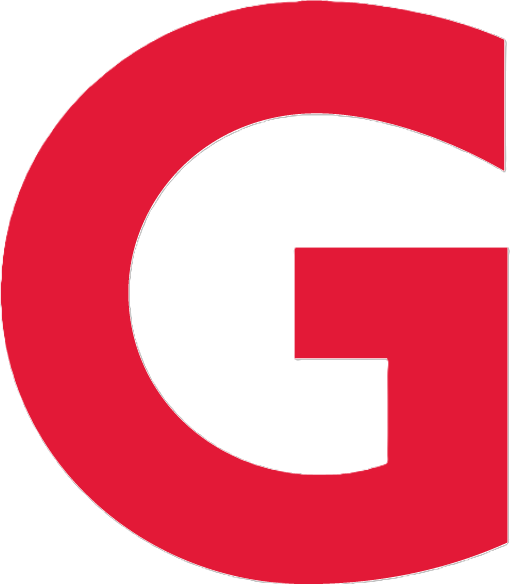
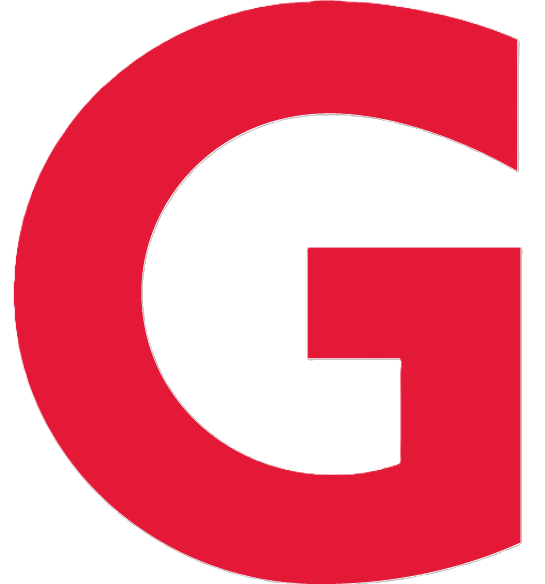
Add files via upload

diff --git a/index.html b/index.html
@@ -11,10 +11,10 @@
       --text:#1f2937;
       --muted:#6b7280;
       --border:#e5e7eb;
-      --red:#e11d48;
-      --red-2:#f43f5e;
-      --green:#16a34a;
-      --blue:#2563eb;
+      --red:#e31937;
+      --red-2:#5236ab;
+      --green:#2faf49;
+      --blue:#5236ab;
       --shadow: 0 18px 40px rgba(17,24,39,.08);
       --shadow-soft: 0 6px 22px rgba(17,24,39,.06);
       --radius: 22px;
@@ -71,7 +71,7 @@
 
     .logo-top img {
       display: block;
-      width: 248px;
+      width: 242px;
       max-width: 100%;
       height: auto;
     }
@@ -89,7 +89,7 @@
       color: #374151;
       font-size: 1.05rem;
       line-height: 1.45;
-      max-width: 16ch;
+      max-width: 100%;
     }
 
     .topic-list {
@@ -174,7 +174,7 @@
       position: relative;
       z-index: 1;
       display: flex;
-      align-items: end;
+      align-items: center;
       gap: 12px;
       height: 100%;
     }
@@ -253,7 +253,7 @@
       height: 100%;
       width: 0%;
       border-radius: inherit;
-      background: linear-gradient(90deg, #ef4444, var(--red));
+      background: linear-gradient(90deg, var(--red), var(--red-2));
       transition: width .28s ease;
     }
 
@@ -403,8 +403,8 @@
     .primary:hover, .secondary:hover { transform: translateY(-1px); }
     .primary {
       color: #fff;
-      background: linear-gradient(90deg, #ef4444, #e11d48);
-      box-shadow: 0 14px 28px rgba(225,29,72,.18);
+      background: linear-gradient(90deg, var(--red), var(--red-2));
+      box-shadow: 0 14px 28px rgba(227,25,55,.18);
     }
 
     .secondary {
@@ -427,6 +427,15 @@
       box-shadow: 0 4px 12px rgba(17,24,39,.03);
     }
 
+    .slogan {
+      margin: 0 0 8px;
+      color: var(--red);
+      font-size: .9rem;
+      font-weight: 800;
+      letter-spacing: .14em;
+      text-transform: uppercase;
+    }
+
     .logo-area {
       display: flex;
       align-items: center;
@@ -441,27 +450,27 @@
       max-width: 760px;
       display: grid;
       grid-template-columns: repeat(3, minmax(0, 1fr));
-      gap: 24px;
-      align-items: end;
+      gap: 18px;
+      align-items: center;
     }
 
     .logo-stage .slot {
       display: flex;
       align-items: center;
       justify-content: center;
-      min-height: 380px;
+      min-height: 340px;
     }
 
     .logo-stage img {
       display: block;
-      height: 280px;
+      height: 300px;
       width: auto;
       max-width: 100%;
       object-fit: contain;
-      filter: drop-shadow(0 14px 26px rgba(225,29,72,.18));
+      filter: none;
       transition: opacity .4s ease, transform .4s ease, filter .4s ease;
-      opacity: .08;
-      transform: translateY(12px) scale(.96);
+      opacity: 0;
+      transform: translateY(16px) scale(.96);
       background: transparent;
     }
 
@@ -471,12 +480,12 @@
     }
 
     .logo-stage img.final {
-      filter: drop-shadow(0 16px 28px rgba(225,29,72,.28));
+      filter: none;
     }
 
-    .logo-stage .c { width: 100%; max-width: 245px; }
-    .logo-stage .g { width: 100%; max-width: 245px; }
-    .logo-stage .i { width: 100%; max-width: 245px; }
+    .logo-stage .c { width: 100%; max-width: 240px; }
+    .logo-stage .g { width: 100%; max-width: 240px; }
+    .logo-stage .i { width: 100%; max-width: 240px; }
 
     .complete-box {
       margin-top: 8px;
@@ -568,12 +577,7 @@
       .main { padding: 14px; }
       .topline { flex-direction: column; align-items: flex-start; }
       .form-grid { grid-template-columns: 1fr; }
-      .logo-top img {
-      display: block;
-      width: 248px;
-      max-width: 100%;
-      height: auto;
-    }
+      .logo-top img { width: 220px; }
       .logo-stage { gap: 10px; }
       .logo-stage .slot { min-height: 220px; }
       .logo-stage img { height: 190px; }
@@ -590,7 +594,7 @@
       </div>
 
       <h2>Wähle dein Thema</h2>
-      <p>Diese Auswahl zählt nicht zur Bewertung. Beantworte anschließend 3 Fragen zu deinem gewählten Thema.</p>
+      <p>Welches der folgenden Themen ist für deine berufliche Tätigkeit aktuell am wichtigsten?</p>
 
       <div class="topic-list" id="topicList"></div>
 
@@ -599,8 +603,8 @@
           <div class="city-inner">
             <div class="ibc-mark">ibc</div>
             <div class="city-text">
-              IBC 2025
-              <small>12–15 September 2025<br />RAI Amsterdam</small>
+              IBC 2026
+              <small>11–14 September 2026<br />RAI Amsterdam</small>
             </div>
           </div>
         </div>
@@ -620,6 +624,7 @@
 
       <section class="content-card" id="contentCard">
         <div class="left-col">
+          <div class="slogan" aria-hidden="true">Building what's next</div>
           <div id="topicBanner" class="topic-banner">Bitte wähle zuerst ein Thema.</div>
           <h3 class="question-title" id="questionTitle">Wähle ein Thema links, um zu starten.</h3>
           <p class="question-subtitle" id="questionSubtitle">Die drei Fragen passen sich dem gewählten Themenfeld an.</p>
@@ -673,7 +678,7 @@
       </section>
 
       <div class="footer-note">
-        <span><strong>Hinweis:</strong> Das CGI-Logo baut sich nacheinander aus den drei gelieferten Bilddateien auf.</span>
+        <span><strong>Hinweis:</strong> Die drei Logo-Bestandteile bauen sich nacheinander auf. Es gibt keine Schrittbeschriftungen mehr.</span>
         <span>Standalone HTML für GitHub Pages</span>
       </div>
     </main>